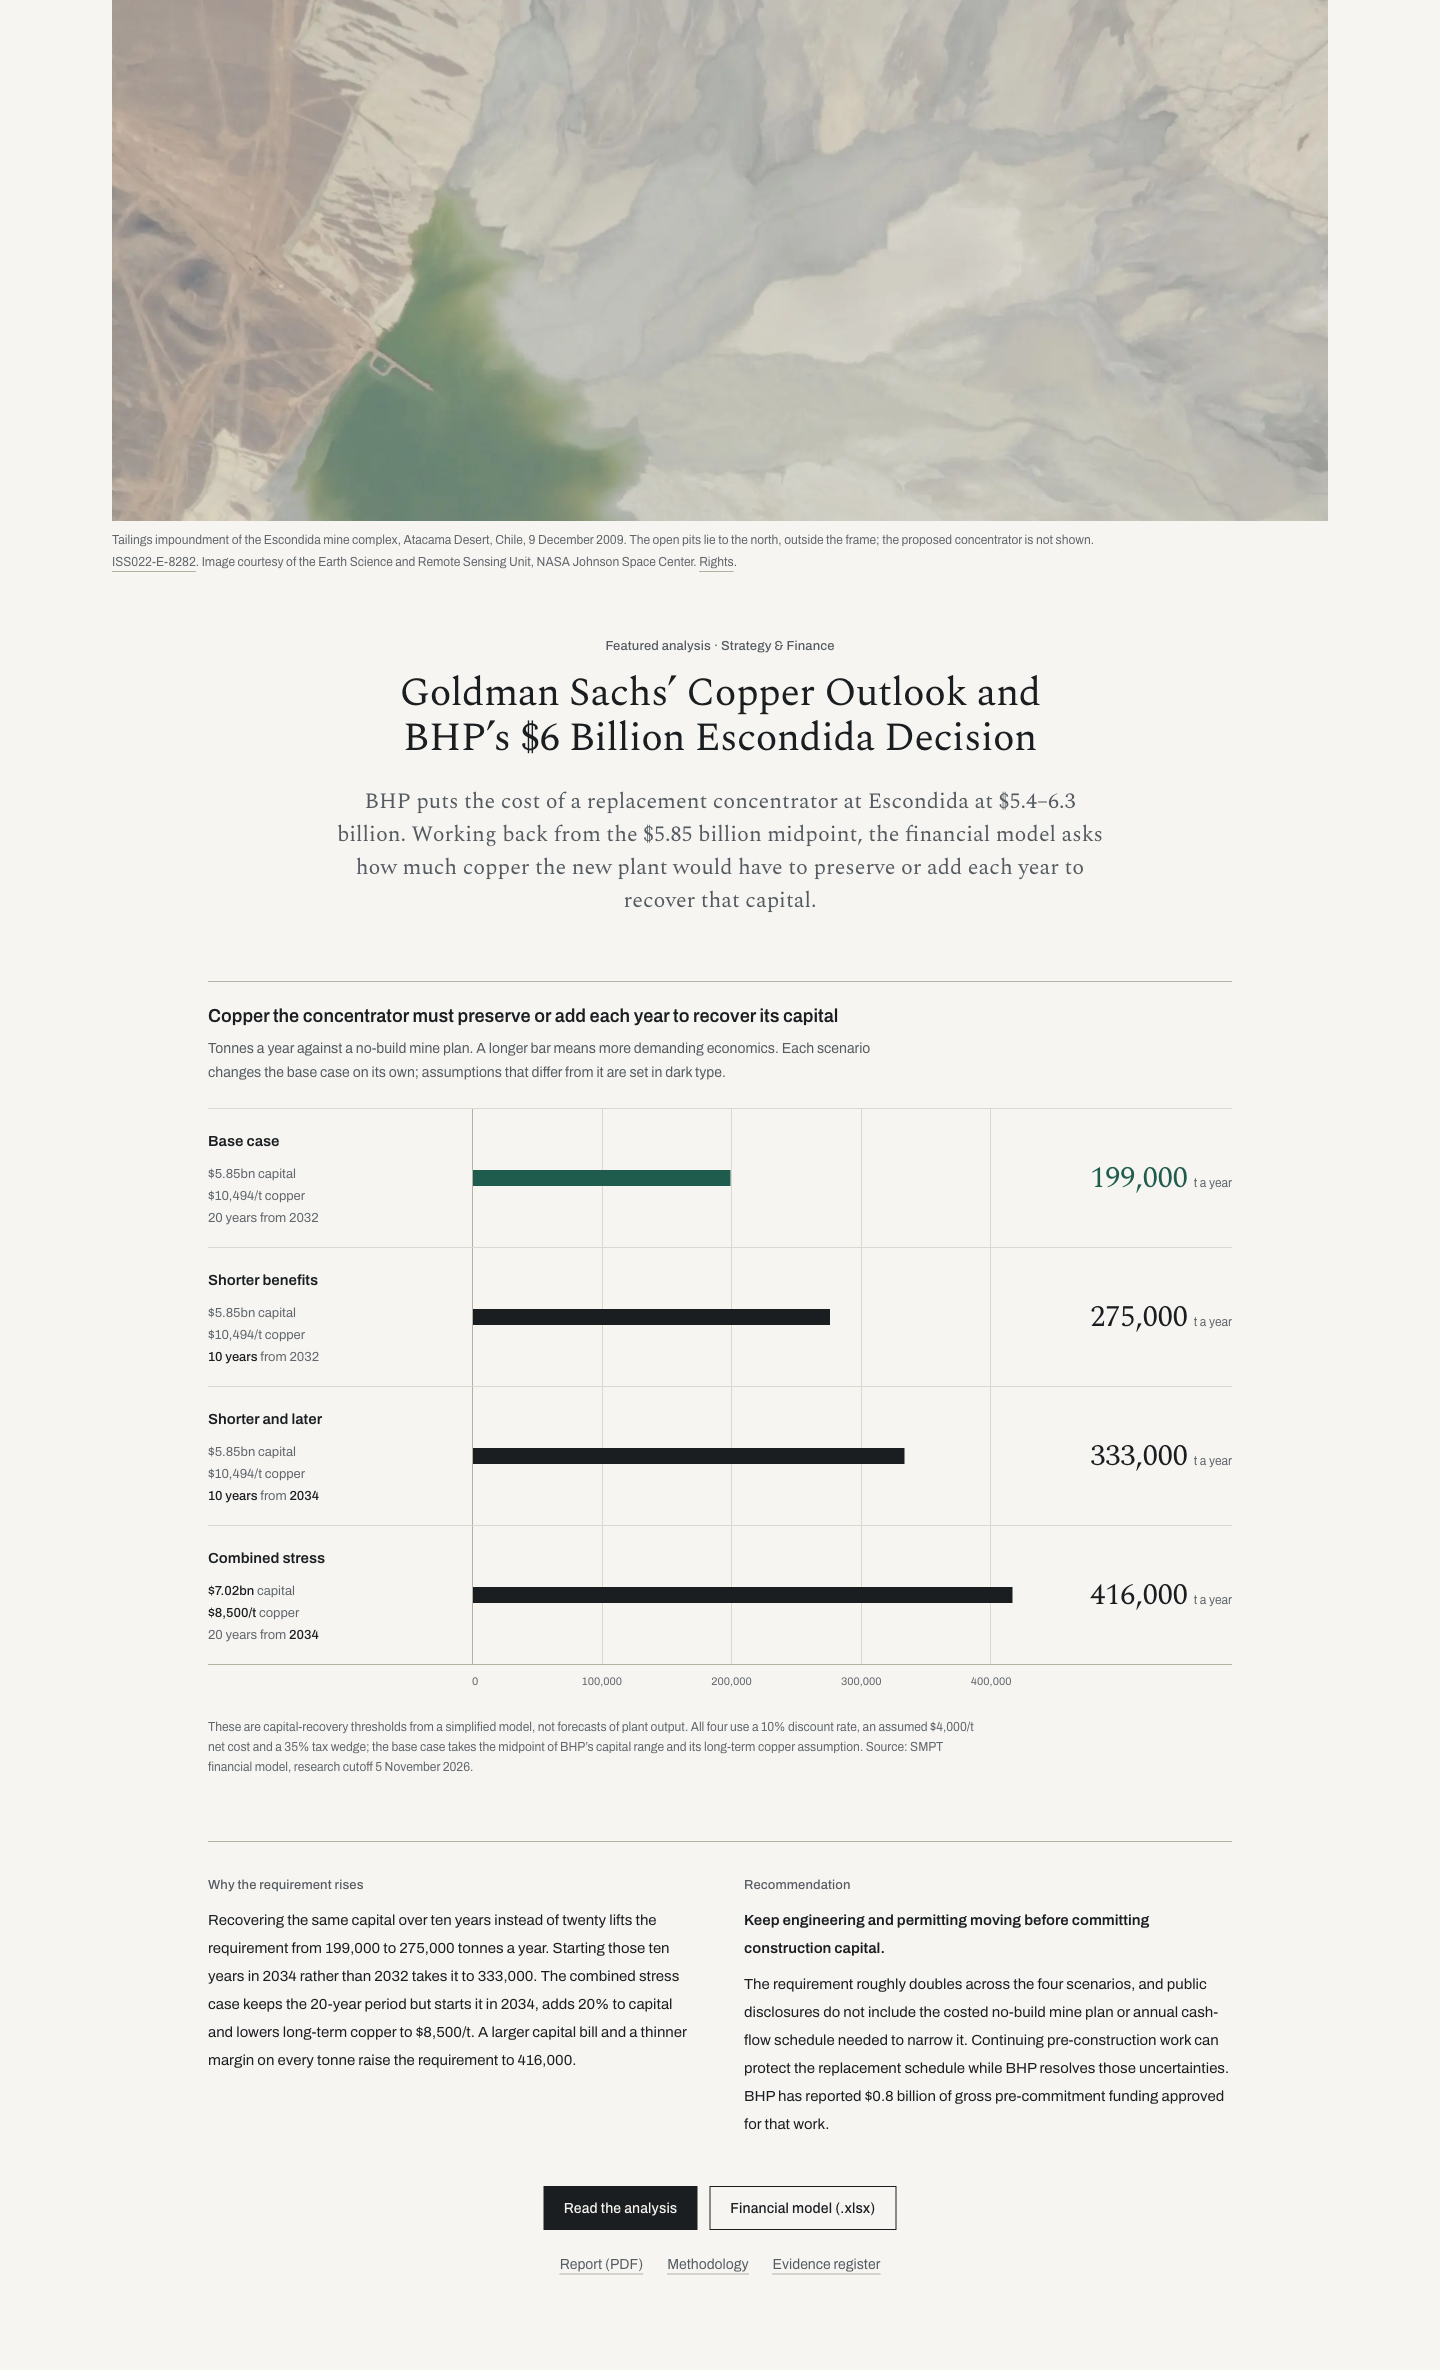
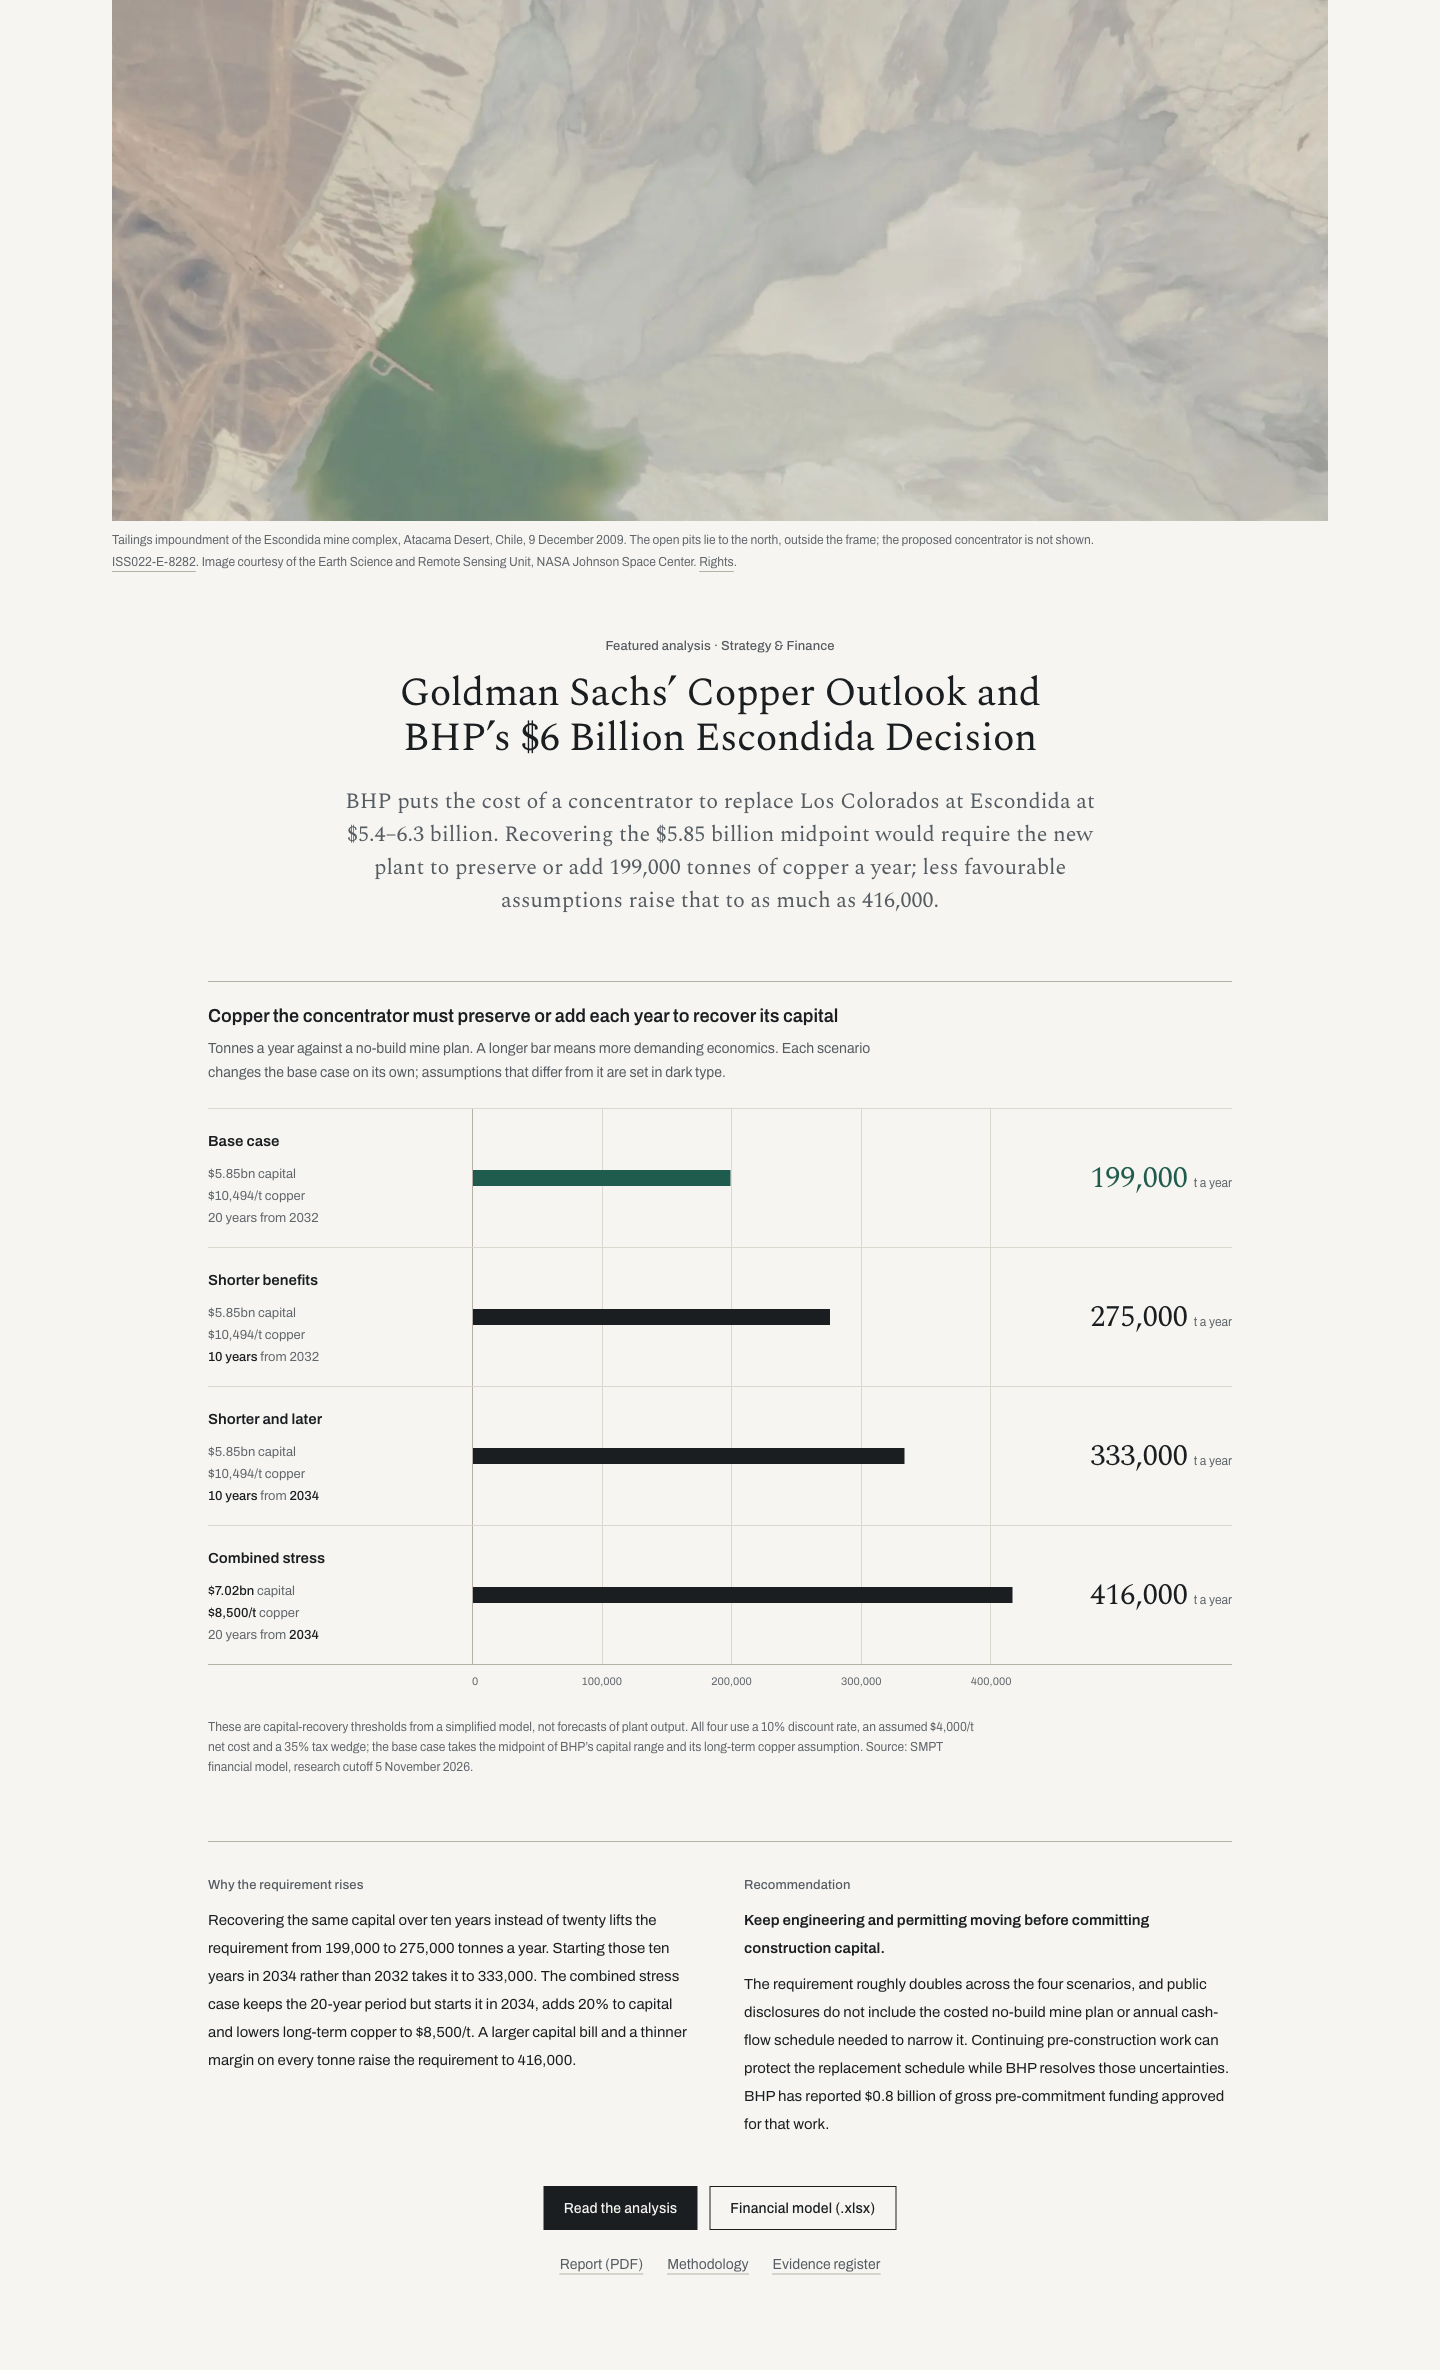
State the featured analysis result in the standfirst
Apply the house-style pass: the standfirst now names Los Colorados and gives
the 199,000-416,000 t a year result directly (interpolated from fi002Screens)
instead of narrating what the model asks. Screenshots retaken.

Changed region(s): [[0.25, 0.3122, 0.75, 0.4059]]

diff --git a/components/home/featured-case.tsx b/components/home/featured-case.tsx
@@ -63,9 +63,9 @@ export function FeaturedCase() {
             </Link>
           </h2>
           <p className="standfirst mt-6">
-            BHP puts the cost of a replacement concentrator at Escondida at $5.4–6.3 billion. Working back from
-            the $5.85 billion midpoint, the financial model asks how much copper the new plant would have to
-            preserve or add each year to recover that capital.
+            BHP puts the cost of a concentrator to replace Los Colorados at Escondida at $5.4–6.3 billion. Recovering the
+            $5.85 billion midpoint would require the new plant to preserve or add {tonnes(baseScreen.ktpa)}{" "}
+            tonnes of copper a year; less favourable assumptions raise that to as much as {tonnes(stress.ktpa)}.
           </p>
         </div>
 

diff --git a/PROJECT_STATE.md b/PROJECT_STATE.md
@@ -1,9 +1,9 @@
-## 2026-11-12: Homepage featured analysis (FI002) redesign (PR, not merged)
+## 2026-11-12: Homepage featured analysis (FI002) redesign (PR #266, not merged)
 
 - Branch `claude/featured-analysis-redesign-3945be`, from `main` at ddadcdc. Only `components/home/featured-case.tsx`, a `.featured-track` rule in `app/globals.css`, a new `tests/featured-analysis.test.ts` and screenshots in `docs/design/reviews/featured-analysis/`. `lib/fi002.ts`, the article, the model, the CSV and every download are unchanged.
 - The four big numerals became one zero-based horizontal bar exhibit (0–450,000 t a year): Base case 199,000, Shorter benefits 275,000, Shorter and later 333,000, Combined stress 416,000. Each row lists capital, copper price and benefit period; assumptions that differ from the base case are set in dark type (with screen-reader text). Values come from `fi002Screens`; verified against `threshold-sensitivities.csv`, `model.xlsx` and the methodology formula.
 - Wording: "copper the concentrator must preserve or add each year", not "copper-equivalent" (a by-product conversion term the model does not use). The 230–270 ktpa design output is deliberately not drawn beside the thresholds (methodology: it cannot be equated to the requirement). Added "Why the requirement rises", the recommendation, and a source/cut-off line.
-- Verified locally: `validate`, `lint` (0 errors), `typecheck`, 1285 tests, `build`; browser check at 1440 and 375 px, no horizontal overflow. No editorial sign-off yet on the new homepage copy.
+- Verified locally: `validate`, `lint` (0 errors), `typecheck`, 1285 tests, `build`; browser check at 1440 and 375 px, no horizontal overflow. House-style checklist applied to the new copy (standfirst now states the result directly and names Los Colorados); no human editorial sign-off yet.
 
 ## 2026-11-11: Publication design system migration to the Architectural Research Studio identity (draft PR, not merged)
 
